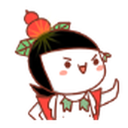
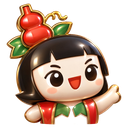
feat: 换侧边栏市场图标、摘标题栏地球入口、排序挂到树上
resources/icon.png 换成新 logo（活动栏 fuliba.svg 不动）。

标题栏设置齿轮旁的「最新福利」地球按钮移除（命令面板仍可用，树里有门户节点）。

版块树顶部加「排序：XXX · 点击修改」节点，点击改排序、切完即时刷新文案；原视图标题旁小灰字保留。

版本升 0.9.1，CHANGELOG 同步。

diff --git a/src/providers/ForumProvider.ts b/src/providers/ForumProvider.ts
@@ -4,7 +4,7 @@ import { fetchForumGroups, fetchThreadList } from '../discuz';
 import { fetchLatestArticles } from '../portal';
 import type { PortalArticle } from '../portal';
 import { LoginRequiredError } from '../error';
-import { ForumGroup, Thread } from '../models';
+import { ForumGroup, SORT_LABELS, Thread } from '../models';
 import Global from '../global';
 
 /**
@@ -52,6 +52,10 @@ export default class ForumProvider extends BaseProvider {
 		// 每次渲染都重算一遍，这样 refreshNode 之后标记能立刻更新
 		if (element.tid !== undefined) {
 			ForumProvider.decorateThread(element);
+		}
+		// 排序提示节点同理：改完排序只 repaint 不重建树，文案在渲染时刷新
+		if (element.contextValue === NODE.sortHint) {
+			ForumProvider.applySortLabel(element);
 		}
 		return element;
 	}
@@ -129,6 +133,8 @@ export default class ForumProvider extends BaseProvider {
 
 		// 「最新福利」挂在最后：它是另一个站（门户），和上面的版块不在同一个体系里
 		roots.push(ForumProvider.portalRoot());
+		// 当前排序挂在树顶：藏在标题栏小字里太不显眼，直接摆进树里点一下就能改
+		roots.unshift(ForumProvider.sortHint());
 		this.roots = roots;
 	}
 
@@ -226,6 +232,33 @@ export default class ForumProvider extends BaseProvider {
 		node.tooltip = '论坛的版块和帖子需要登录才能看';
 		node.command = { command: 'fuliba.setCookie', title: '导入 Cookie' };
 		return node;
+	}
+
+	/**
+	 * 树顶的「当前排序」节点。
+	 *
+	 * 排序方式原来只显示在视图标题旁的小字里，几乎没人看得见；
+	 * 现在直接摆成树的第一个节点，label 就是当前排序，点一下打开排序菜单。
+	 * 文案不在建节点时定死 —— 改排序只 repaint，渲染时经 applySortLabel 刷新。
+	 */
+	private static sortHint(): TreeNode {
+		const node = new TreeNode('', false);
+		node.setKind('sortHint');
+		node.iconPath = new vscode.ThemeIcon('list-ordered');
+		node.command = { command: 'fuliba.chooseSort', title: '更改排序方式' };
+		ForumProvider.applySortLabel(node);
+		return node;
+	}
+
+	/** 把当前排序写进提示节点的 label 和 tooltip */
+	private static applySortLabel(node: TreeNode): void {
+		const sort = Global.getThreadSort();
+		node.label = `排序：${SORT_LABELS[sort]}`;
+		node.description = '点击修改';
+		node.tooltip = [
+			`版块内帖子当前按「${SORT_LABELS[sort]}」排列`,
+			'点击这一行可以换一种排法',
+		].join('\n');
 	}
 
 	/**

diff --git a/src/providers/BaseProvider.ts b/src/providers/BaseProvider.ts
@@ -26,6 +26,8 @@ export const NODE = {
 	portal: 'fuliba.portal',
 	/** 门户文章叶子节点。靠 aid 区分于帖子的 tid */
 	article: 'fuliba.article',
+	/** 树顶的「当前排序」提示节点。点击打开排序菜单，改完刷新时同步改文案 */
+	sortHint: 'fuliba.sortHint',
 	hint: 'fuliba.hint',
 	error: 'fuliba.error',
 } as const;

diff --git a/CHANGELOG.md b/CHANGELOG.md
@@ -3,6 +3,14 @@
 福利吧扩展的全部版本变更。格式大体沿用 [Keep a Changelog](https://keepachangelog.com/zh-CN/1.1.0/)，
 版本号遵循 [语义化版本](https://semver.org/lang/zh-CN/)。
 
+## [0.9.1] - 2026-09-17
+
+### 改动
+
+- **侧边栏图标换成新 logo**：`resources/icon.png`（市场 / 扩展面板图标）替换为新形象；活动栏图标（`fuliba.svg`）保持不变。
+- **去掉标题栏的地球入口**：顶部设置齿轮旁的「最新福利」🌐 按钮从标题栏移除（命令面板仍可用，树里也有门户节点）。
+- **当前排序直接展示在树上**：版块树顶部新增一个「排序：XXX · 点击修改」节点，点击即打开排序菜单；切换排序后文案即时刷新（原来这个状态只藏在视图标题旁的小灰字里，几乎看不见）。
+
 ## [0.9.0] - 2026-09-16
 
 ### 新增
@@ -98,6 +106,7 @@
 
 - 首个版本：版块树浏览、帖子详情、图片按需加载、已读标记、搜索
 
+[0.9.1]: https://github.com/tom-hanks/vscode-fuliba/compare/v0.9.0...v0.9.1
 [0.9.0]: https://github.com/tom-hanks/vscode-fuliba/compare/v0.8.0...v0.9.0
 [0.8.0]: https://github.com/tom-hanks/vscode-fuliba/compare/v0.6.0...v0.8.0
 [0.6.0]: https://github.com/tom-hanks/vscode-fuliba/compare/v0.2.1...v0.6.0
